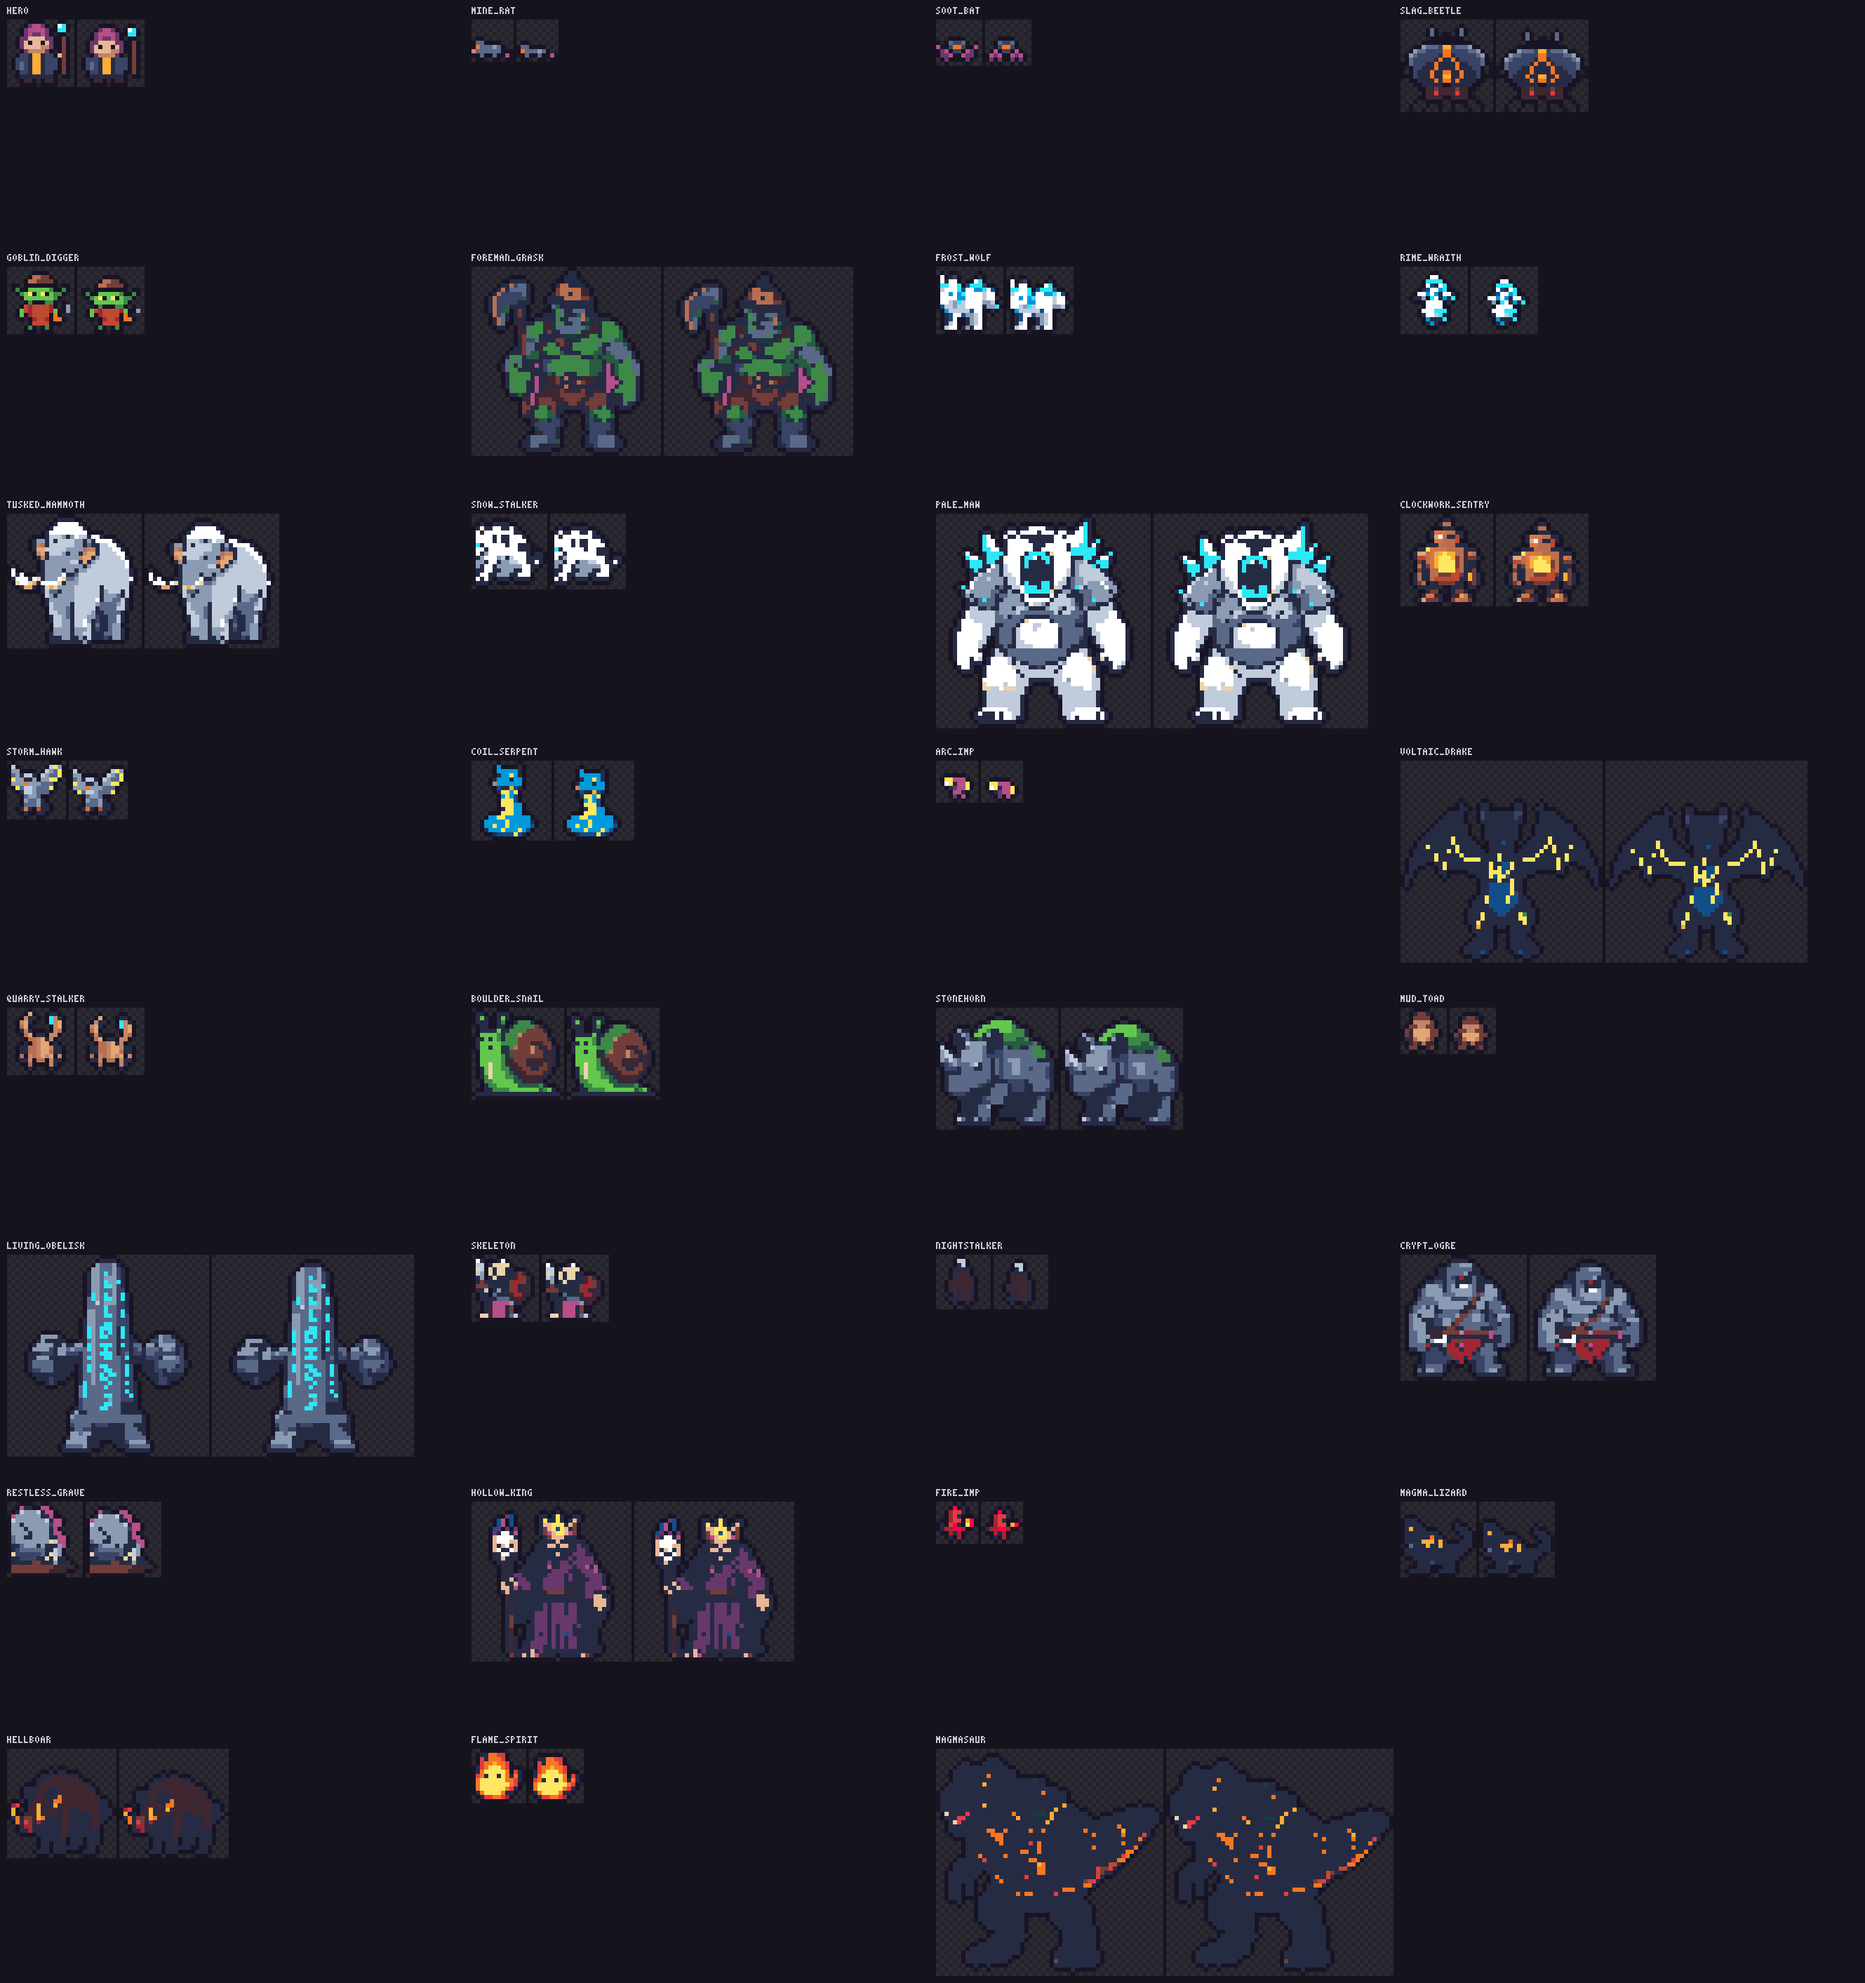
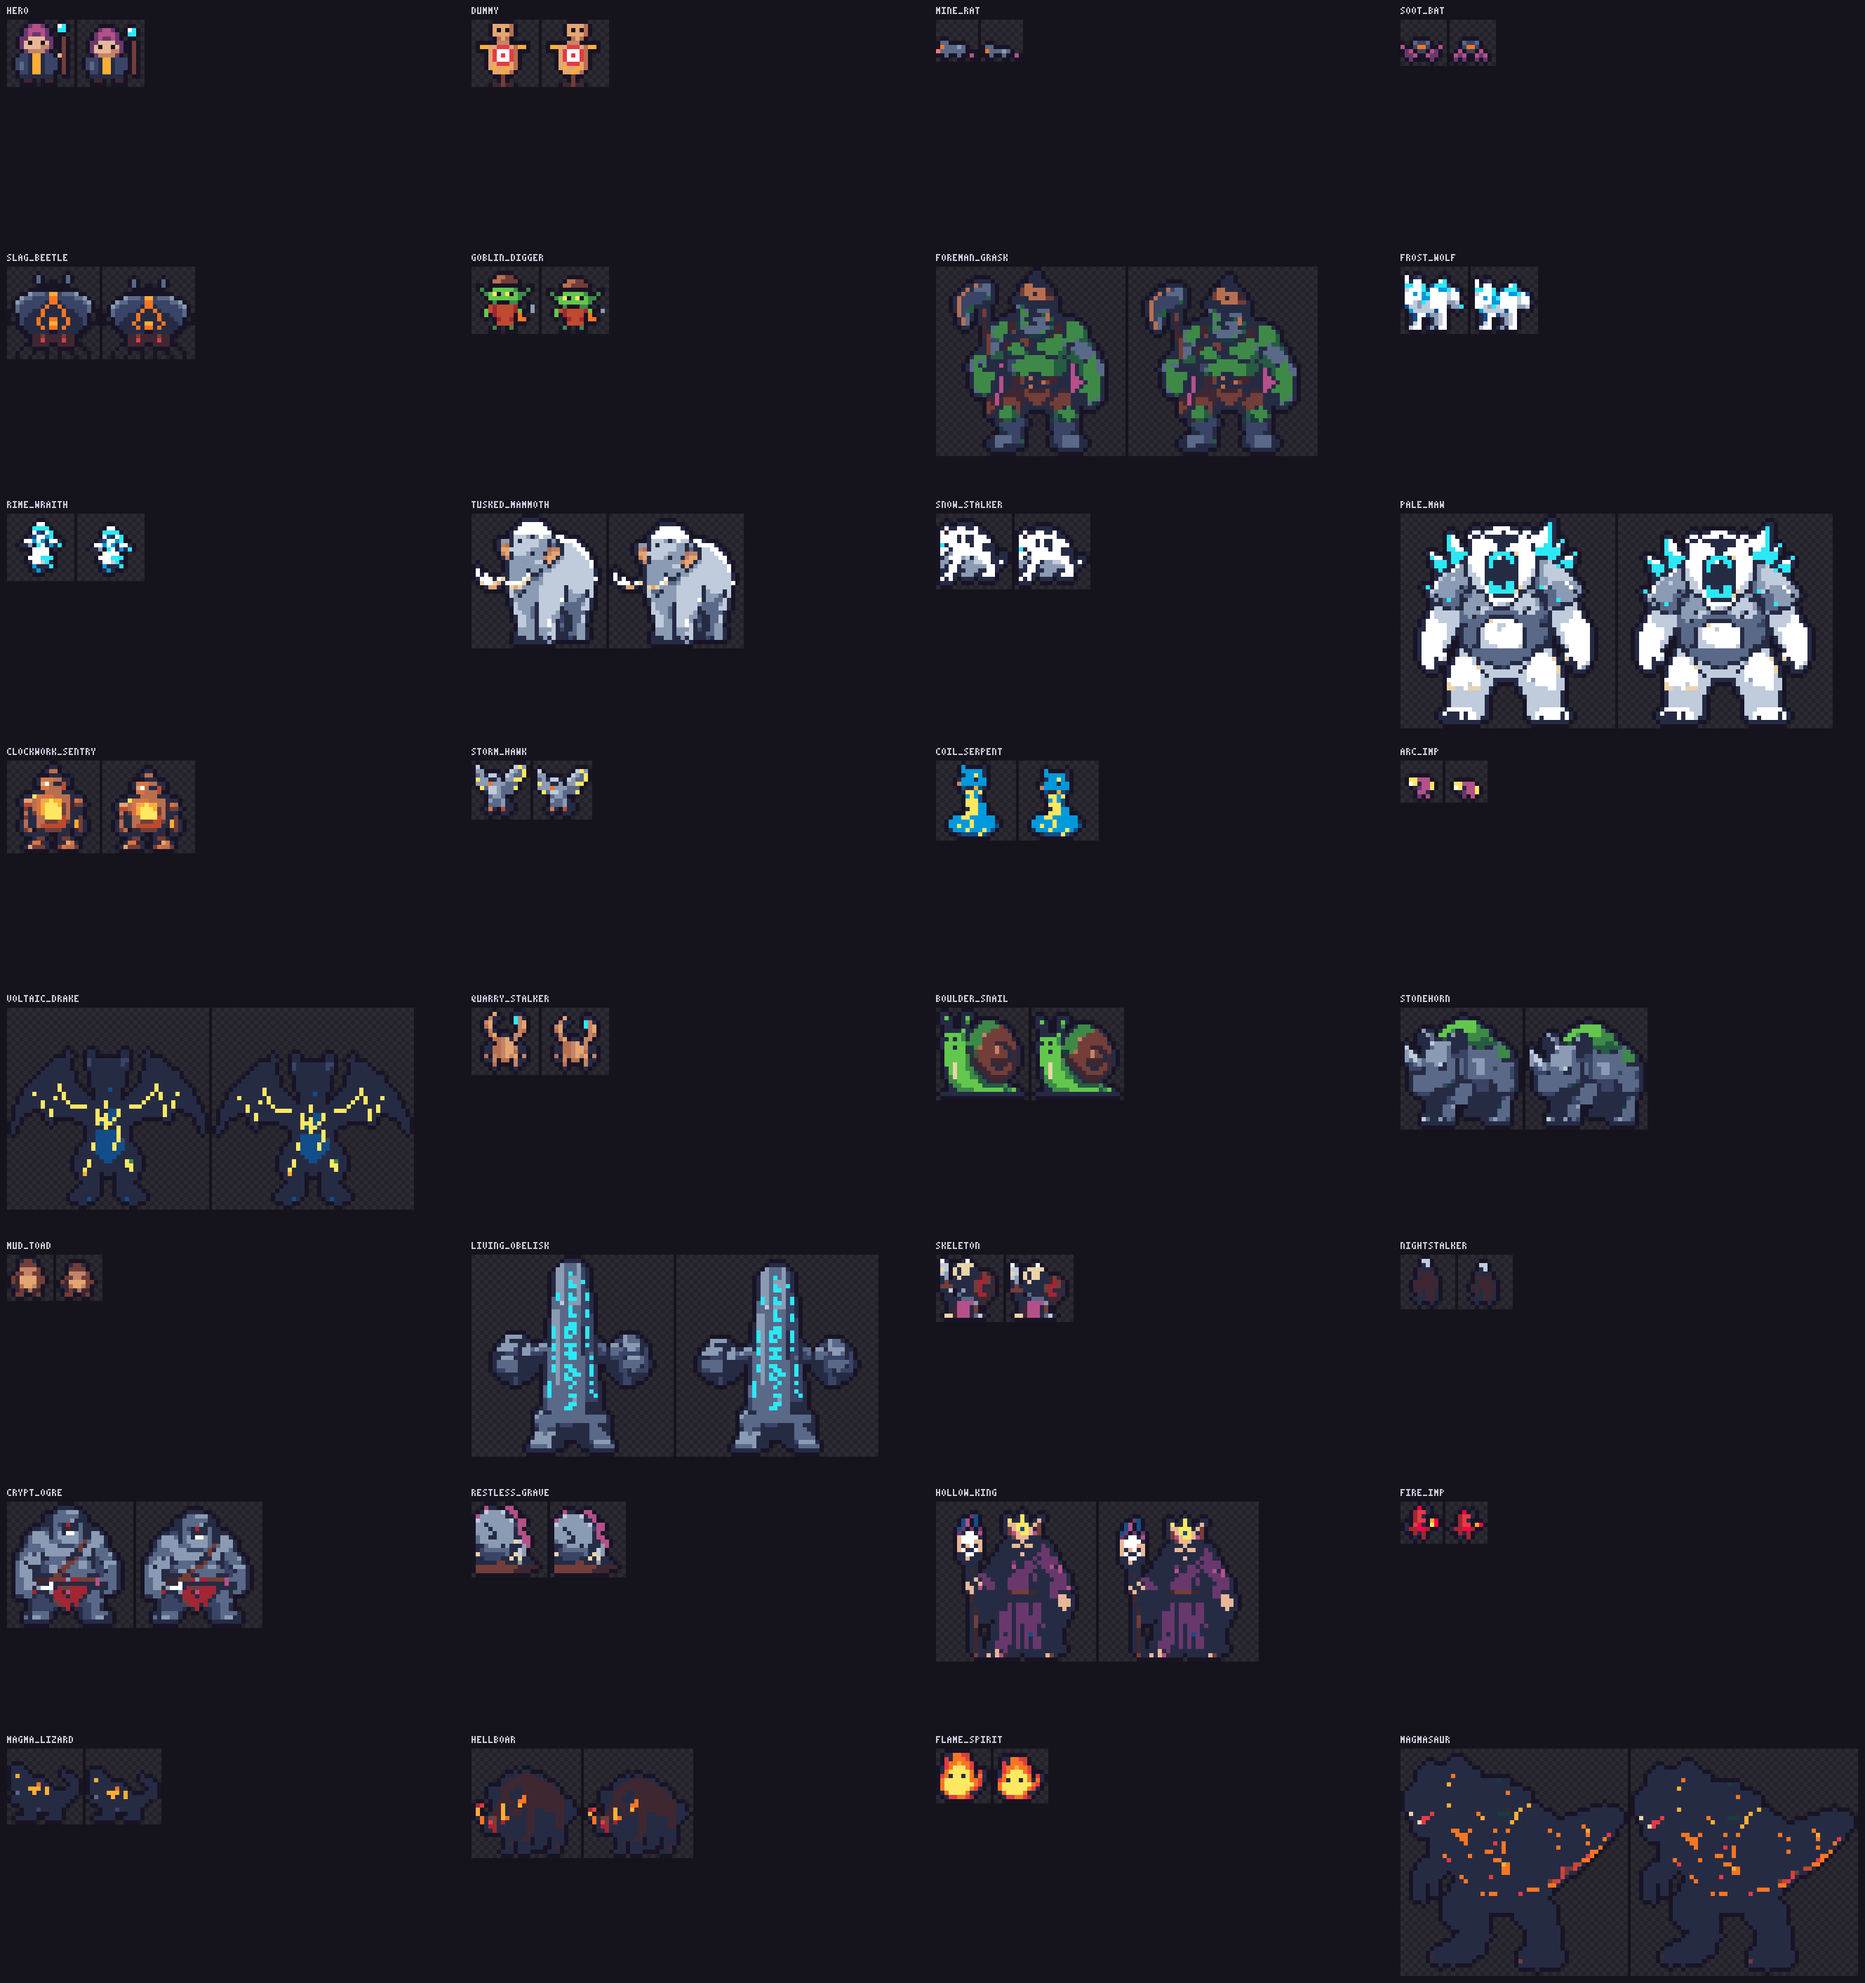
art: a training dummy sprite

diff --git a/packages/client/src/features/delve/__tests__/sprite-atlas.test.ts b/packages/client/src/features/delve/__tests__/sprite-atlas.test.ts
@@ -16,16 +16,18 @@ describe('delve sprite atlas', () => {
   const monsterIds = new Set(
     registry.getDelveData().biomes.flatMap((b) => [...b.monsters.map((m) => m.id), b.boss.id]),
   );
+  /** Everything the arena draws from the atlas: the hero, the training dummy (size 1) and the monsters. */
+  const known = new Set(['hero', 'dummy', ...monsterIds]);
 
   it('only holds sprites the game can use', () => {
     for (const id of Object.keys(atlas.animations)) {
-      expect(id === 'hero' || monsterIds.has(id), `unknown sprite "${id}"`).toBe(true);
+      expect(known.has(id), `unknown sprite "${id}"`).toBe(true);
     }
   });
 
-  it('covers the hero and the whole first biome', () => {
+  it('covers the hero, the training dummy and the whole first biome', () => {
     const first = registry.getDelveData().biomes[0];
-    for (const id of ['hero', ...first.monsters.map((m) => m.id), first.boss.id]) {
+    for (const id of ['hero', 'dummy', ...first.monsters.map((m) => m.id), first.boss.id]) {
       expect(atlas.animations[id]?.length, id).toBeGreaterThanOrEqual(2);
     }
   });
@@ -40,6 +42,7 @@ describe('delve sprite atlas', () => {
         .map((m) => [m.id, m.size ?? 1]),
     );
     sizes.set('hero', 1);
+    sizes.set('dummy', 1);
     for (const [id, names] of Object.entries(atlas.animations)) {
       const want = Math.round(16 * sizes.get(id)!);
       for (const n of names) {

diff --git a/packages/pixel-forge/art/alloy/sprites/dummy.ts b/packages/pixel-forge/art/alloy/sprites/dummy.ts
@@ -1,0 +1,58 @@
+import type { CodeSprite } from '../../../src/draw';
+
+/** Training Dummy: a straw dummy on a post with a target on its chest; its sack head sways. */
+const dummy: CodeSprite = {
+  size: 16,
+  legend: {
+    k: '#181425', // outline
+    S: '#e4a672', // burlap
+    s: '#feae34', // straw
+    b: '#b86f50', // burlap shade
+    t: '#c28569', // rope
+    r: '#e43b44', // target red
+    o: '#ffffff', // target white
+    w: '#733e39', // post
+    W: '#3e2731', // base
+  },
+  // prettier-ignore
+  frames: [
+    [
+      '....kkkkk....',
+      '...kSSSSbk...',
+      '...kSkSkbk...',
+      '...kSSSSbk...',
+      '....kbSbk....',
+      'kkkkktttkkkkk',
+      'kssSSrrrSbssk',
+      'kkkSrooorbkkk',
+      '..kSrororbk..',
+      '..kSrooorbk..',
+      '..kSSrrrSbk..',
+      '..kSsSSsSbk..',
+      '...kSSsSbk...',
+      '....kkwkk....',
+      '.....kwk.....',
+      '...kWWwWWk...',
+    ],
+    [
+      '.....kkkkk....',
+      '....kSSSSbk...',
+      '....kSkSkbk...',
+      '....kSSSSbk...',
+      '.....kbSbk....',
+      'kkkkktttkkkkk.',
+      'kssSSrrrSbssk.',
+      'kkkSrooorbkkk.',
+      '..kSrororbk...',
+      '..kSrooorbk...',
+      '..kSSrrrSbk...',
+      '..kSsSSsSbk...',
+      '...kSSsSbk....',
+      '....kkwkk.....',
+      '.....kwk......',
+      '...kWWwWWk....',
+    ],
+  ],
+};
+
+export default dummy;
